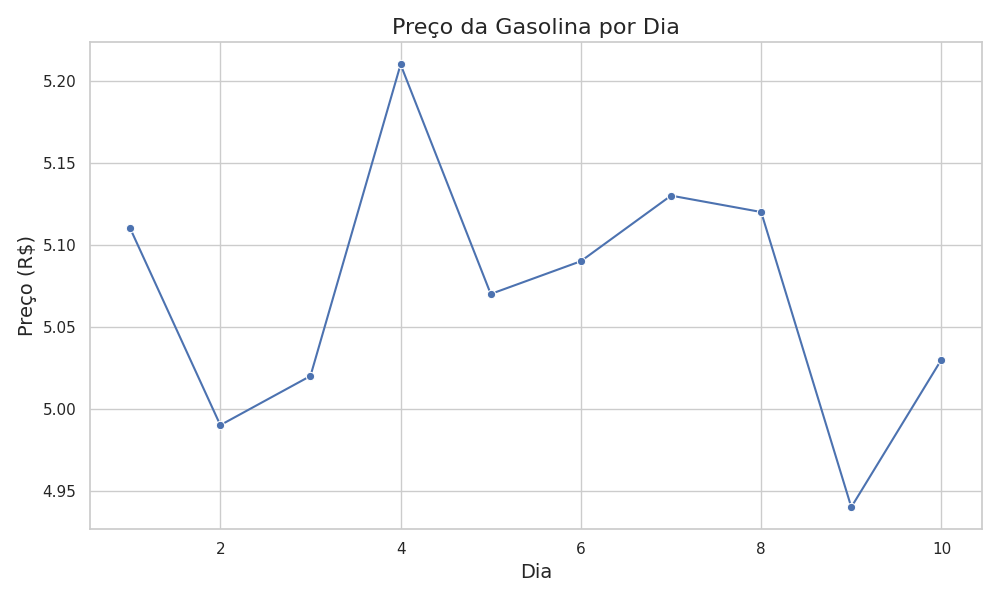
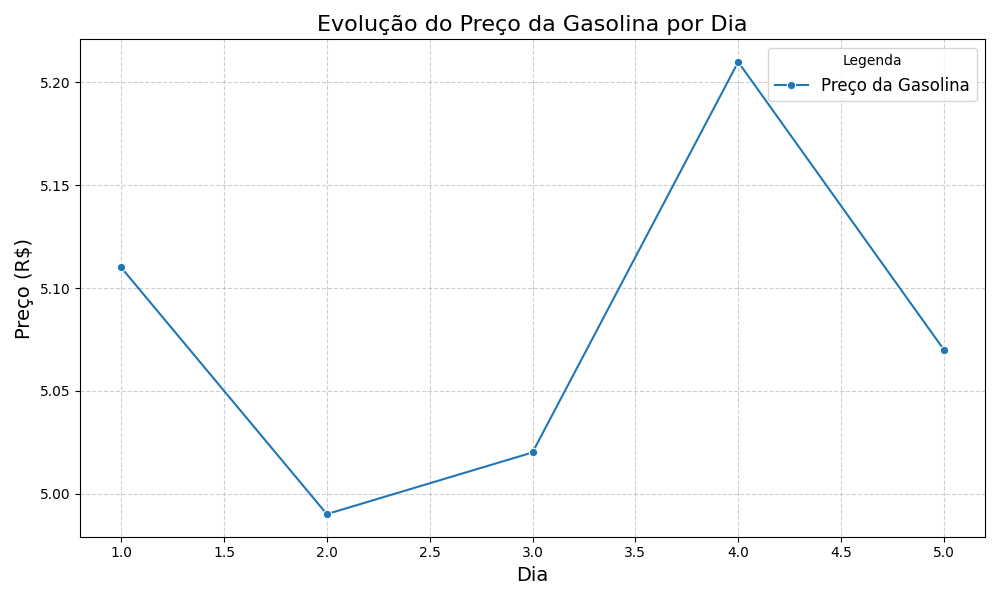
Adiciona arquivos: base de dados, código Python e gráfico gerado

diff --git a/gasolina.py b/gasolina.py
@@ -1,20 +1,16 @@
 
 # código de geração do gráfico
-import pandas as pd
+# Criar o gráfico de linha com elementos adicionais
 import seaborn as sns
 import matplotlib.pyplot as plt
 
-gasolina_df= pd.read_csv('gasolina.csv')
-
-# Configurar estilo com Seaborn (opcional)
-sns.set(style="whitegrid")
-
-# Criar o gráfico
 plt.figure(figsize=(10, 6))
-sns.lineplot(data=gasolina_df, x='dia', y='venda', marker='o')
-plt.title('Preço da Gasolina por Dia', fontsize=16)
+sns.lineplot(data=gasolina_df, x='dia', y='venda', marker='o', label='Preço da Gasolina')
+plt.title('Evolução do Preço da Gasolina por Dia', fontsize=16)
 plt.xlabel('Dia', fontsize=14)
 plt.ylabel('Preço (R$)', fontsize=14)
+plt.legend(title='Legenda', fontsize=12)
+plt.grid(True, linestyle='--', alpha=0.6)
 plt.tight_layout()
 
 # Salvar o gráfico como PNG
